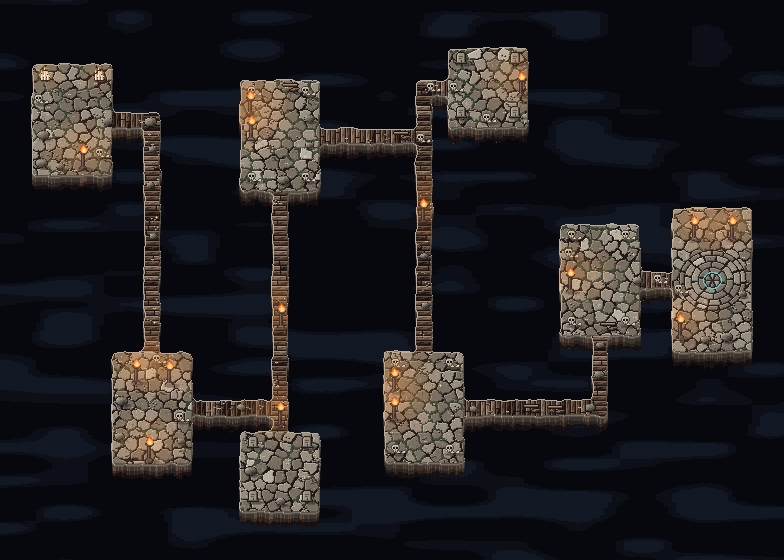
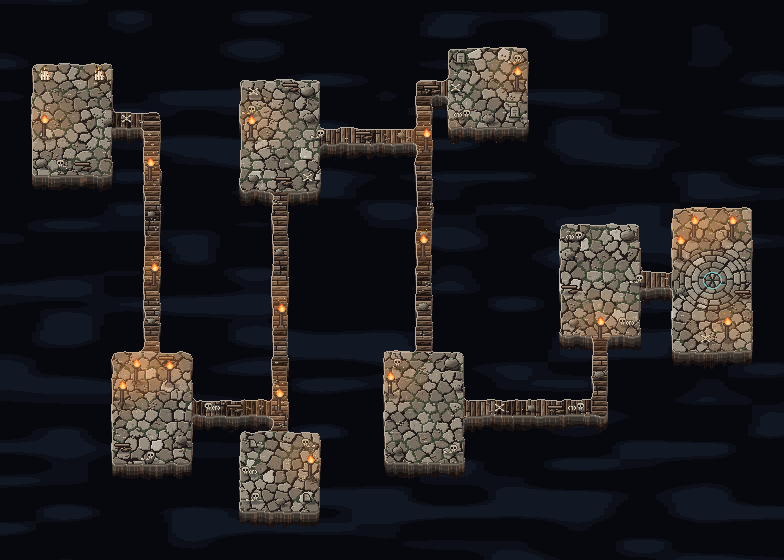
Act maps: varied props, fewer repeats, wheel relic in act 10
The same decoration stamped again and again looked odd (user feedback),
and act 10's gold-painted human statue looked out of place.

- Skulls have four shapes (skull and bones, lone skull, crossed bones,
  ribcage with skull), statues three (figure, broken torso with its
  fallen head, obelisk) and graves three (round stone, stone cross,
  small leaning stone). Each is mirrored at random from the map seed,
  so a given map always draws the same.
- A room no longer puts one prop in all four corners: the opposite
  corners get its prop, the other two the next landmark prop.
- Wall scatter re-rolls a prop when the same kind already stands within
  72 dots.
- Act 10 (합일의 차륜): the gold statue is replaced by a wheel relic, a
  six-spoked gold wheel with a blue glowing hub on a stone plinth. It
  appears only in elite and landmark rooms, not in the scatter.
- Prop footprints widened to match the new shapes, so nothing spills
  onto walls (0 stray dots on all ten maps). Maps regenerated, art
  version 20261004b.

Claude-Session: https://claude.ai/code/session_01MC7S7ZLKKgdsF9BsD8h1Gx

diff --git a/index.html b/index.html
@@ -1453,7 +1453,7 @@
 <script defer src="data/shrines.js?v=20260817-battlefield1"></script>
 <script defer src="data/maps.js?v=20260719-tier-rift-stack1&cosmos=20260814-balance1&trial=20260814-bloom1&pinnacle=20260814-atlas1&tune=20260815-bloom2&trial5=20260816-underworld1&directives=20260817-1&journal=20260820-arcana2&roadmap=20260821-2&map-tabs=20260823-1&trial-hazard=20260901-1&square-map=20260901-3&rival31=20260902-1&refinement=20260906-1&treasure=20260907-1&story-fx=20260909-1&expedition-review=20260914-2&act-maps=20260915-soft-grid&skill-delta2=20260930-15&aux=20260930-7&aux=20260930-8&aux=20261001-1&aux=20261001-16&aux=20261001-17&aux=20261001-18&aux=20261002-4"></script>
 <script defer src="data/story-journal.js?v=20260929-bridge1"></script>
-<script defer src="data/act-exploration-maps.js?v=20260922-1&aux=20261002-20&aux=20261002-21&aux=20261002-30&maps=20261002-1&sight=20261004-1&vis=20261004-1"></script>
+<script defer src="data/act-exploration-maps.js?v=20260922-1&aux=20261002-20&aux=20261002-21&aux=20261002-30&maps=20261002-1&sight=20261004-1&vis=20261004-1&props=20261004-1"></script>
 <script defer src="data/cosmos-route.js?v=20260909-8&aux=20261001-17&aux=20261002-1"></script>
 <script defer src="data/exploration-regions.js?v=20260930-8"></script>
 <script defer src="data/atlas.js?v=20260930-15&aux=20261001-16&aux=20261001-17&maps=20261002-1&late=20261002-1&review=20261002-1"></script>

diff --git a/data/act-exploration-maps.js b/data/act-exploration-maps.js
@@ -143,7 +143,7 @@ const ACT_EXPLORATION_BACKDROPS = Object.freeze({
 });
 // Version of the backdrop and gate pictures, added to their URLs (js/canvas-exploration-art.js) so a redrawn map is never
 // served from the browser's image cache. Bump it with every --write.
-const ACT_EXPLORATION_ART_VERSION = '20261004a';
+const ACT_EXPLORATION_ART_VERSION = '20261004b';
 // Sight around the hero in tiles (walked through floor, js/act-exploration-map.js visibleCells). Ground inside it is clear and the
 // fog starts past it (js/canvas-act-exploration.js fogAlpha). 2026-10-02: 5 → 6 (user: the view felt cramped). 2026-10-04: the sixth
 // tile was still dimmed (the fog began a tile inside and the unseen fog bled over it), so only the monsters showed there.
